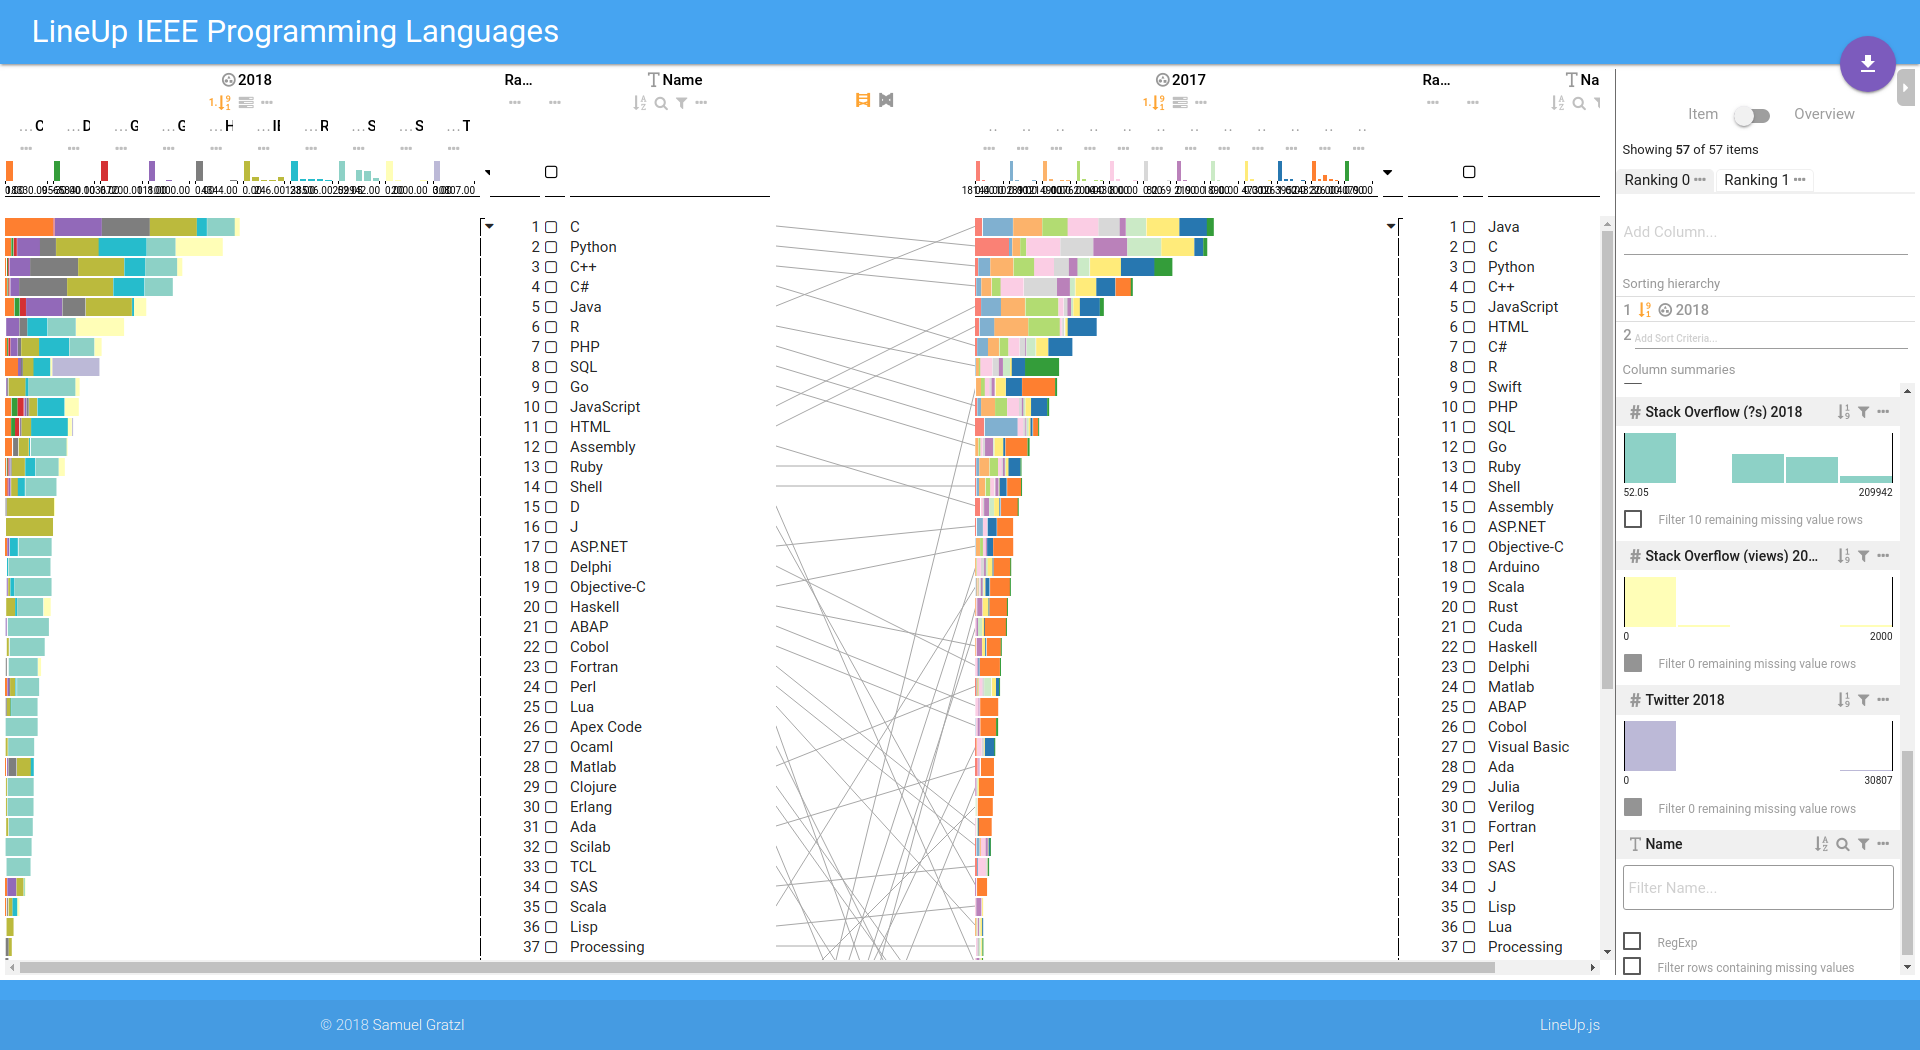
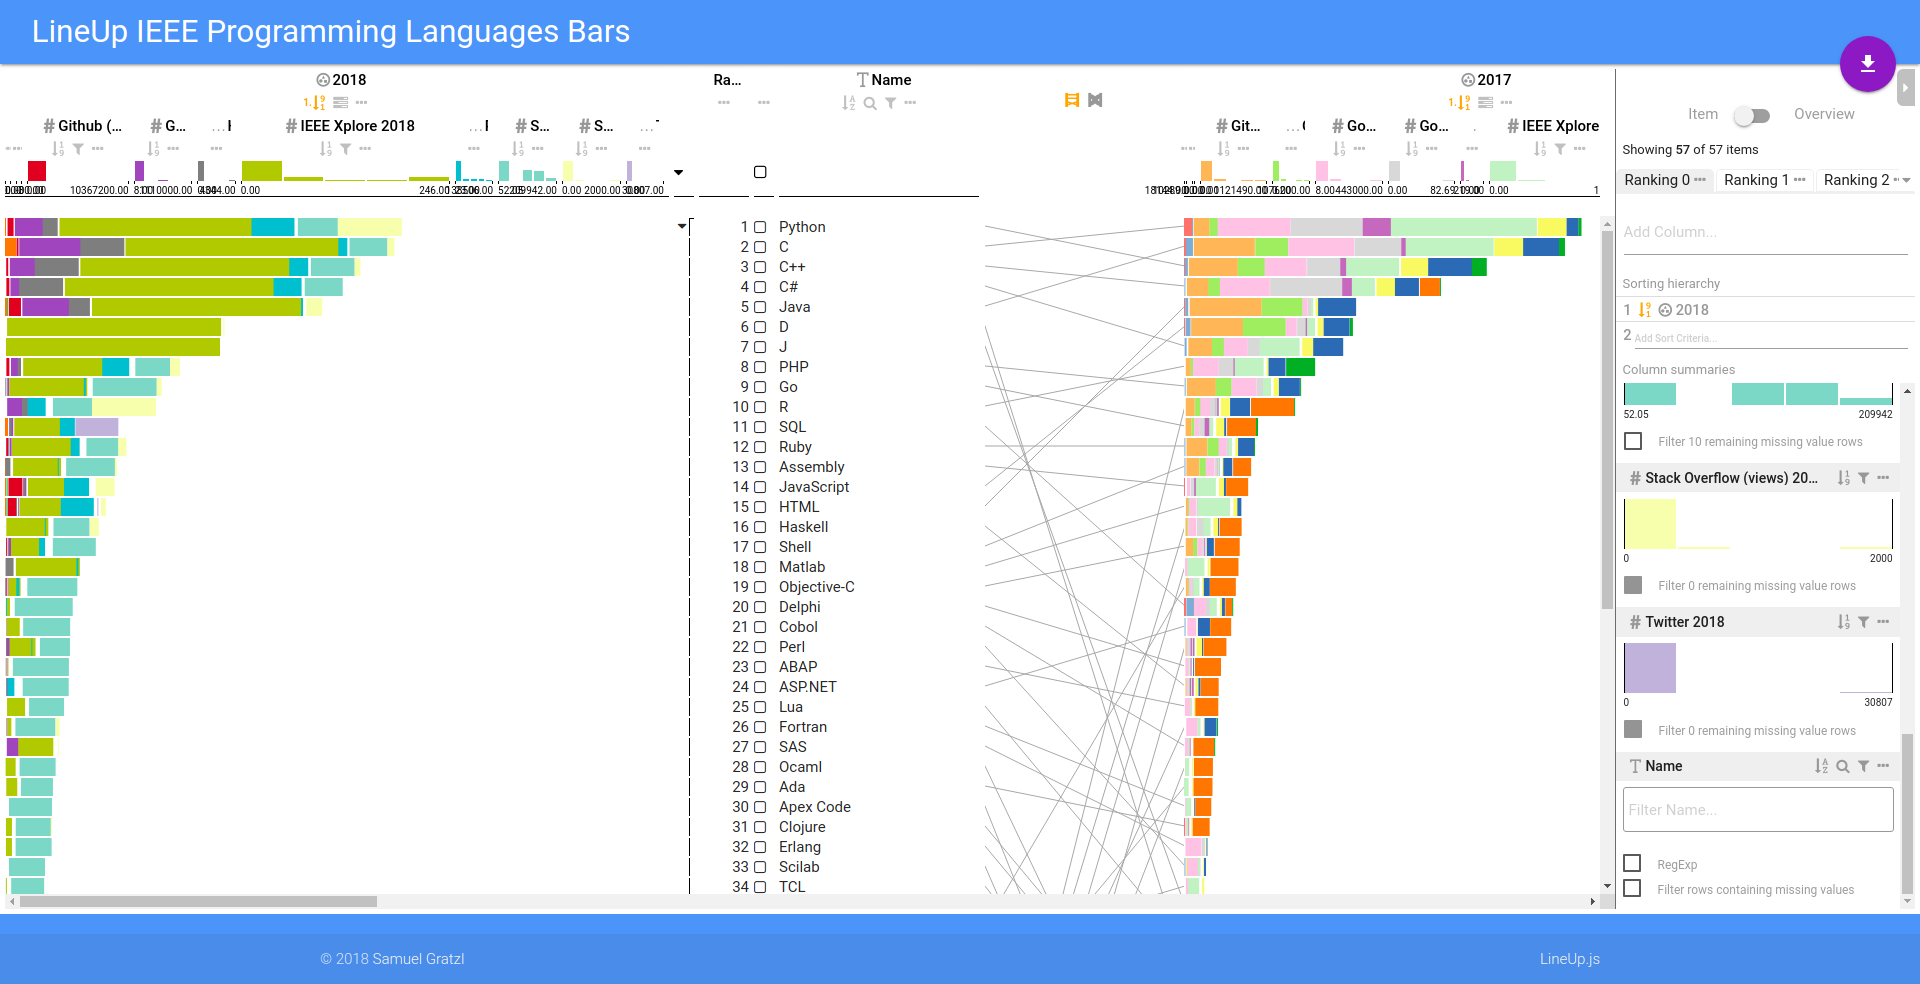
inlcude ieee weights and update preview image

Changed region(s): [[0.0, 0.0, 1.0, 0.9451], [0.1875, 0.9756, 0.2188, 1.0]]

diff --git a/src/data/ieee-programming/index.ts b/src/data/ieee-programming/index.ts
@@ -83,6 +83,7 @@ export const ieeebars: IDataset = {
     }).then((parsed: ParseResult) => {
       const years = [2014, 2015, 2016, 2017, 2018]; // 5 years
       const sources = ['Career Builder', 'Dice', 'Github (active)', 'Github (created)', 'Google Search', 'Google Trends', 'Hacker News', 'IEEE Xplore', 'Reddit (posts)', 'Stack Overflow (?s)', 'Stack Overflow (views)', 'Twitter']; // 12 sources
+      const spectrum_weights: { [s: string]: number; }  = {'Career Builder': 5, 'Dice': 5, 'Github (active)': 50, 'Github (created)': 30, 'Google Search': 50, 'Google Trends': 50, 'Hacker News': 20, 'IEEE Xplore': 100, 'Reddit (posts)': 20, 'Stack Overflow (?s)': 30, 'Stack Overflow (views)': 30, 'Twitter': 20};
 
       // //Merge data of multiple years for each source
       parsed.data.forEach((row) => {
@@ -113,7 +114,7 @@ export const ieeebars: IDataset = {
           const colName = source + ' ' + year;
           dataBuilder = dataBuilder.column(buildNumberColumn(colName)); //Create a column to use it for the ranking
           if (parsed.data[0] && parsed.data[0][colName]) { // avoid NaN columns (e.g. Google Trends 2018)
-            columnNamesAndWeights.push(...[colName, 1]); // all columns have weight 1
+            columnNamesAndWeights.push(...[colName, spectrum_weights[source]]); // all columns have weight 1
           }
         });
 
